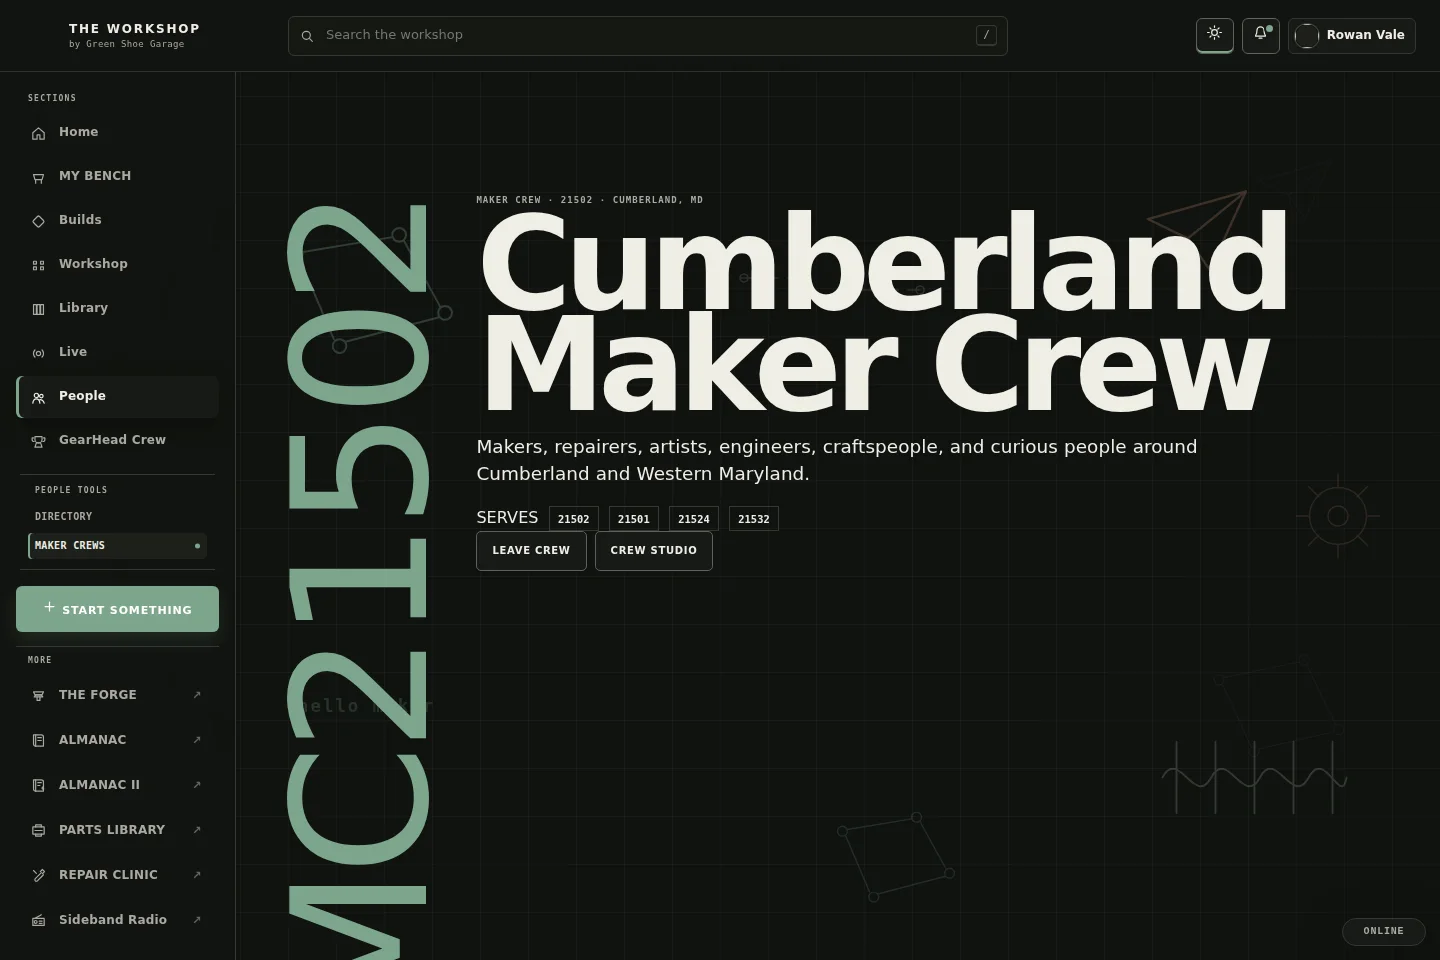
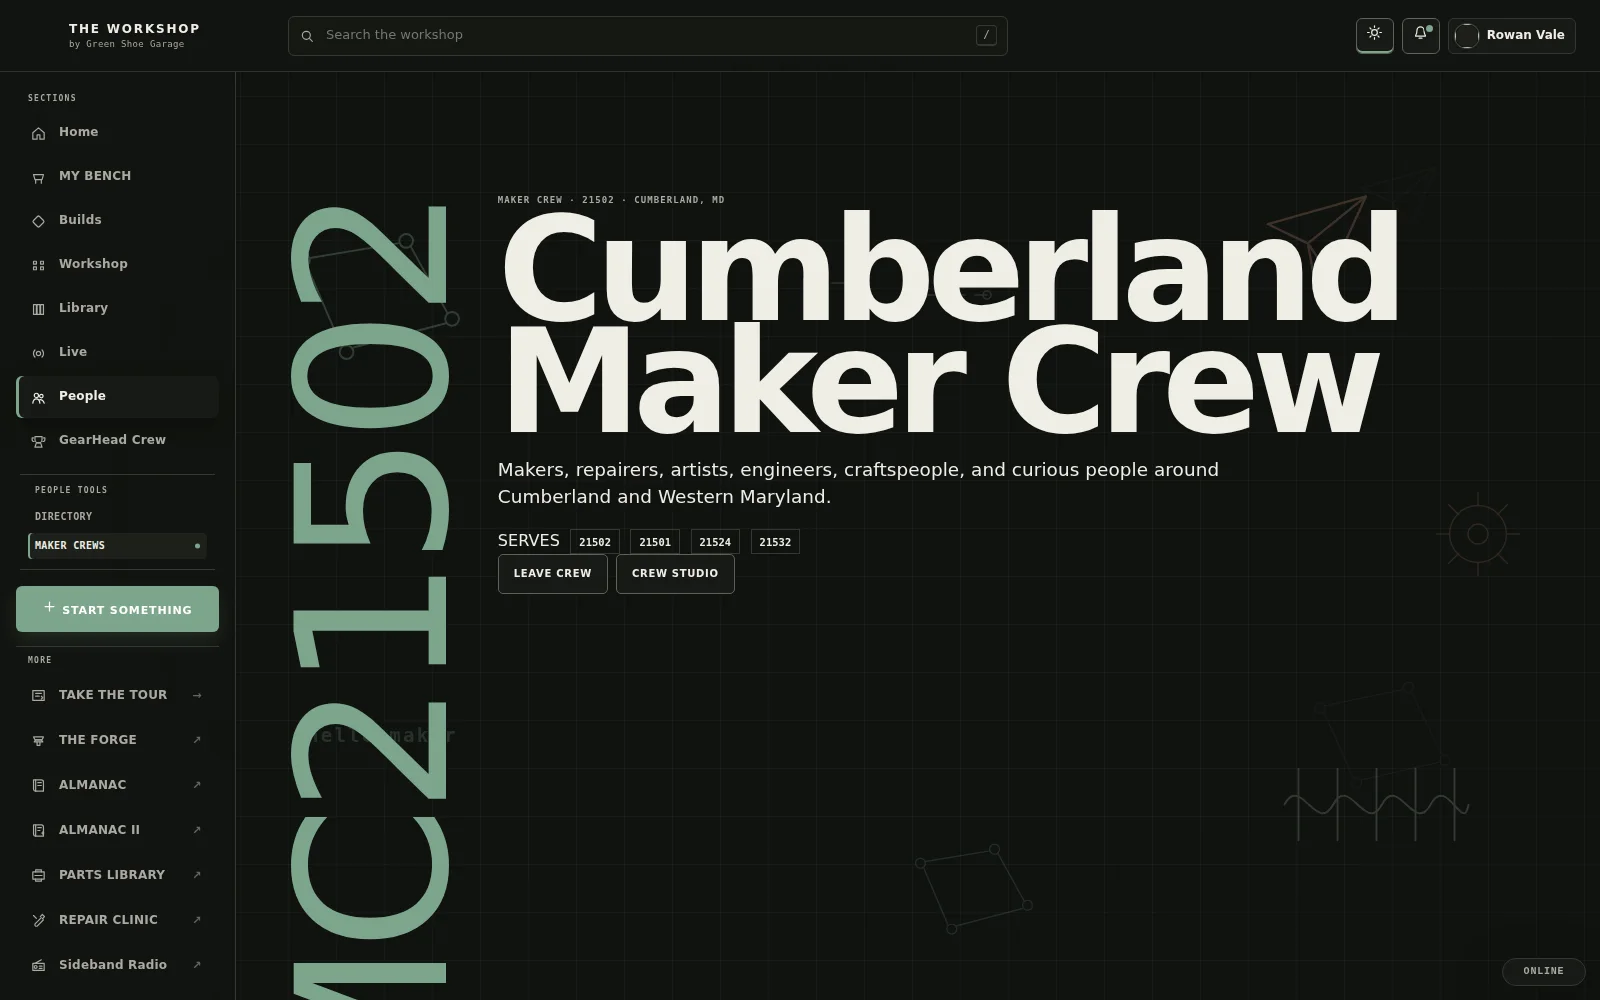
Fix public tour screenshot framing

diff --git a/public/tour/index.html b/public/tour/index.html
@@ -42,7 +42,7 @@
         <p class="demo-note"><span aria-hidden="true">◇</span> Screenshots use a fictional demo workspace. No production member data appears on this page.</p>
       </div>
       <button class="hero-shot shot-button" type="button" data-shot="/tour/screens/01-home.webp" data-caption="Home brings active work, useful community activity, and discovery into one Workshop view.">
-        <img src="/tour/screens/01-home.webp" alt="THE WORKSHOP Home screen showing a project-focused maker community dashboard" width="1440" height="960">
+        <img src="/tour/screens/01-home.webp" alt="THE WORKSHOP Home screen showing a project-focused maker community dashboard" width="1600" height="1000">
         <span>OPEN SCREENSHOT ↗</span>
       </button>
     </section>
@@ -74,8 +74,8 @@
         </ul>
       </div>
       <figure class="screen-card wide">
-        <button class="shot-button" type="button" data-shot="/tour/screens/01-home.webp" data-caption="Home keeps the focus on work, community activity, and useful next steps.">
-          <img src="/tour/screens/01-home.webp" alt="THE WORKSHOP Home screen" width="1440" height="960" loading="eager">
+        <button class="shot-button" type="button" data-shot="/tour/screens/01-home-activity.webp" data-caption="Around the Workshop shows meaningful project, Crew, and Live activity without becoming an endless feed.">
+          <img src="/tour/screens/01-home-activity.webp" alt="THE WORKSHOP Home screen scrolled to Around the Workshop activity and useful next steps" width="1600" height="1000" loading="eager">
         </button>
         <figcaption><strong>HOME</strong><span>Resume work · discover · see what is happening</span></figcaption>
       </figure>
@@ -97,7 +97,7 @@
       </div>
       <figure class="screen-card">
         <button class="shot-button" type="button" data-shot="/tour/screens/02-bench.webp" data-caption="My Bench presents the maker's practice, callsign, tools, software, learning goals, and current work.">
-          <img src="/tour/screens/02-bench.webp" alt="Fictional maker Bench showing a callsign, current project, tools, skills, software, and Craft Path" width="1440" height="960" loading="lazy">
+          <img src="/tour/screens/02-bench.webp" alt="Fictional maker Bench showing a callsign, current project, tools, skills, software, and Craft Path" width="1600" height="1000" loading="lazy">
         </button>
         <figcaption><strong>MY BENCH</strong><span>Identity · capability · curiosity</span></figcaption>
       </figure>
@@ -118,10 +118,10 @@
         </ul>
       </div>
       <figure class="screen-card">
-        <button class="shot-button" type="button" data-shot="/tour/screens/03-project.webp" data-caption="A Project gathers its current stage, story, Notebook, files, team, and shareable result.">
-          <img src="/tour/screens/03-project.webp" alt="Electronics Project page for a fictional LoRa environmental sensor" width="1440" height="960" loading="lazy">
+        <button class="shot-button" type="button" data-shot="/tour/screens/03-project.webp" data-caption="The Projects index makes active, collaborative, and completed work easy to scan before opening a workspace.">
+          <img src="/tour/screens/03-project.webp" alt="THE WORKSHOP Projects index showing active work across several maker practices" width="1600" height="1000" loading="lazy">
         </button>
-        <figcaption><strong>PROJECT WORKSPACE</strong><span>Document the work as it changes</span></figcaption>
+        <figcaption><strong>PROJECTS</strong><span>Active work · shared work · completed work</span></figcaption>
       </figure>
     </section>
 
@@ -141,7 +141,7 @@
       </div>
       <figure class="screen-card">
         <button class="shot-button" type="button" data-shot="/tour/screens/04-project-talk.webp" data-caption="Project Talk and Help remain attached to the Project and its evidence.">
-          <img src="/tour/screens/04-project-talk.webp" alt="Project Talk area showing contextual help and a discussion composer" width="1440" height="960" loading="lazy">
+          <img src="/tour/screens/04-project-talk.webp" alt="Project Talk area showing contextual help and a discussion composer" width="1600" height="1000" loading="lazy">
         </button>
         <figcaption><strong>PROJECT TALK</strong><span>Questions beat applause</span></figcaption>
       </figure>
@@ -163,7 +163,7 @@
       </div>
       <figure class="screen-card">
         <button class="shot-button" type="button" data-shot="/tour/screens/05-community-builds.webp" data-caption="Community Builds combine shared starting points, teams, fit, and maker variations.">
-          <img src="/tour/screens/05-community-builds.webp" alt="Community Builds page showing prompts, sessions, teardowns, and team actions" width="1440" height="960" loading="lazy">
+          <img src="/tour/screens/05-community-builds.webp" alt="Community Builds page showing prompts, sessions, teardowns, and team actions" width="1600" height="1000" loading="lazy">
         </button>
         <figcaption><strong>COMMUNITY BUILDS</strong><span>One starting point · many interpretations</span></figcaption>
       </figure>
@@ -185,7 +185,7 @@
       </div>
       <figure class="screen-card">
         <button class="shot-button" type="button" data-shot="/tour/screens/06-help-critique.webp" data-caption="Help + Critique brings troubleshooting, design feedback, and identification into one place.">
-          <img src="/tour/screens/06-help-critique.webp" alt="Help and Critique page showing community questions and response options" width="1440" height="960" loading="lazy">
+          <img src="/tour/screens/06-help-critique.webp" alt="Help and Critique page showing community questions and response options" width="1600" height="1000" loading="lazy">
         </button>
         <figcaption><strong>HELP + CRITIQUE</strong><span>Ask clearly · answer usefully</span></figcaption>
       </figure>
@@ -207,7 +207,7 @@
       </div>
       <figure class="screen-card">
         <button class="shot-button" type="button" data-shot="/tour/screens/07-people.webp" data-caption="People discovery is based on skills, learning goals, and current work rather than popularity.">
-          <img src="/tour/screens/07-people.webp" alt="People directory showing skills, callsigns, and makers who may know something useful" width="1440" height="960" loading="lazy">
+          <img src="/tour/screens/07-people.webp" alt="People directory showing skills, callsigns, and makers who may know something useful" width="1600" height="1000" loading="lazy">
         </button>
         <figcaption><strong>PEOPLE</strong><span>Find capability · offer help · learn together</span></figcaption>
       </figure>
@@ -229,7 +229,7 @@
       </div>
       <figure class="screen-card">
         <button class="shot-button" type="button" data-shot="/tour/screens/08-maker-crew.webp" data-caption="Maker Crews provide a local home for meetups, bulletin posts, exchange, and organization.">
-          <img src="/tour/screens/08-maker-crew.webp" alt="Fictional Cumberland Maker Crew page" width="1440" height="960" loading="lazy">
+          <img src="/tour/screens/08-maker-crew.webp" alt="Fictional Cumberland Maker Crew page" width="1600" height="1000" loading="lazy">
         </button>
         <figcaption><strong>MAKER CREW</strong><span>Local coordination without exact home locations</span></figcaption>
       </figure>
@@ -251,7 +251,7 @@
       </div>
       <figure class="screen-card">
         <button class="shot-button" type="button" data-shot="/tour/screens/09-live-calendar.webp" data-caption="Live + Calendar aggregates the Workshop's scheduled activity.">
-          <img src="/tour/screens/09-live-calendar.webp" alt="Live and Calendar page with upcoming Workshop events" width="1440" height="960" loading="lazy">
+          <img src="/tour/screens/09-live-calendar.webp" alt="Live and Calendar page with upcoming Workshop events" width="1600" height="1000" loading="lazy">
         </button>
         <figcaption><strong>LIVE + CALENDAR</strong><span>Sessions · clinics · Crew events · broadcasts</span></figcaption>
       </figure>
@@ -273,7 +273,7 @@
       </div>
       <figure class="screen-card">
         <button class="shot-button" type="button" data-shot="/tour/screens/10-shop-manual.webp" data-caption="The Shop Manual turns project evidence into reusable community knowledge.">
-          <img src="/tour/screens/10-shop-manual.webp" alt="Shop Manual page showing guides and references across disciplines" width="1440" height="960" loading="lazy">
+          <img src="/tour/screens/10-shop-manual.webp" alt="Shop Manual page showing guides and references across disciplines" width="1600" height="1000" loading="lazy">
         </button>
         <figcaption><strong>SHOP MANUAL</strong><span>Useful knowledge should remain findable</span></figcaption>
       </figure>
@@ -295,7 +295,7 @@
       </div>
       <figure class="screen-card">
         <button class="shot-button" type="button" data-shot="/tour/screens/11-gearhead.webp" data-caption="GearHead Crew centers deeper resources and work that helps makers, clients, and users grow together.">
-          <img src="/tour/screens/11-gearhead.webp" alt="GearHead Crew home showing Crew Work and Vault destinations" width="1440" height="960" loading="lazy">
+          <img src="/tour/screens/11-gearhead.webp" alt="GearHead Crew home showing Crew Work and Vault destinations" width="1600" height="1000" loading="lazy">
         </button>
         <figcaption><strong>GEARHEAD CREW</strong><span>Deeper access · community-first work</span></figcaption>
       </figure>
@@ -318,7 +318,7 @@
       <div class="screen-pair">
         <figure class="screen-card">
           <button class="shot-button" type="button" data-shot="/tour/screens/12-appearance.webp" data-caption="Appearance combines theme, display density, and Workshop atmosphere settings.">
-            <img src="/tour/screens/12-appearance.webp" alt="THE WORKSHOP Appearance settings dialog" width="1440" height="960" loading="lazy">
+            <img src="/tour/screens/12-appearance.webp" alt="THE WORKSHOP Appearance settings dialog" width="1600" height="1000" loading="lazy">
           </button>
           <figcaption><strong>APPEARANCE</strong><span>Workshop · Quiet · Off</span></figcaption>
         </figure>

diff --git a/scripts/capture-tour.js b/scripts/capture-tour.js
@@ -39,11 +39,11 @@ async function shot(cdp,name,{scroll=null,selector=null,full=false}={}){
   let chrome,cdp;
   try{
     const base=`http://127.0.0.1:${appPort}`;await waitForHttp(`${base}/api/meta`);
-    chrome=spawn(chromium(),[`--remote-debugging-port=${debugPort}`,`--user-data-dir=${chromeDir}`,'--headless=new','--no-sandbox','--disable-dev-shm-usage','--disable-gpu','--disable-extensions','--disable-background-networking','--disable-sync','--no-first-run','--no-default-browser-check','--hide-scrollbars','--window-size=1440,960','about:blank'],{stdio:['ignore','pipe','pipe']});
+    chrome=spawn(chromium(),[`--remote-debugging-port=${debugPort}`,`--user-data-dir=${chromeDir}`,'--headless=new','--no-sandbox','--disable-dev-shm-usage','--disable-gpu','--disable-extensions','--disable-background-networking','--disable-sync','--no-first-run','--no-default-browser-check','--hide-scrollbars','--window-size=1600,1000','about:blank'],{stdio:['ignore','pipe','pipe']});
     chrome.stdout.on('data',d=>logs.push(String(d)));chrome.stderr.on('data',d=>logs.push(String(d)));
     await waitForHttp(`http://127.0.0.1:${debugPort}/json/version`);
     const target=await (await fetch(`http://127.0.0.1:${debugPort}/json/new?about:blank`,{method:'PUT'})).json();cdp=new CDP(target.webSocketDebuggerUrl);await cdp.connect();
-    await Promise.all([cdp.send('Page.enable'),cdp.send('Runtime.enable'),cdp.send('Network.enable'),cdp.send('Runtime.addBinding',{name:'__qaFetchBridge'}),cdp.send('Emulation.setDeviceMetricsOverride',{width:1440,height:960,deviceScaleFactor:1,mobile:false})]);
+    await Promise.all([cdp.send('Page.enable'),cdp.send('Runtime.enable'),cdp.send('Network.enable'),cdp.send('Runtime.addBinding',{name:'__qaFetchBridge'}),cdp.send('Emulation.setDeviceMetricsOverride',{width:1600,height:1000,deviceScaleFactor:1,mobile:false})]);
     let cookie='';
     cdp.on('Runtime.bindingCalled',async p=>{if(p.name!=='__qaFetchBridge')return;let request;try{request=JSON.parse(p.payload)}catch{return;}try{let pathname=String(request.url||'/');if(pathname.startsWith(base))pathname=pathname.slice(base.length)||'/';else if(/^https?:/i.test(pathname)){const u=new URL(pathname);pathname=u.pathname+u.search;}if(!pathname.startsWith('/'))pathname='/'+pathname;const headers={...(request.headers||{})};if(cookie)headers.cookie=cookie;const response=await fetch(base+pathname,{method:request.method||'GET',headers,body:request.body||undefined,redirect:'manual'});const sc=response.headers.get('set-cookie');if(sc)cookie=sc.split(';')[0];const payload={status:response.status,statusText:response.statusText,headers:Object.fromEntries(response.headers),body:await response.text()};await cdp.send('Runtime.evaluate',{expression:`window.__qaFetchResolve(${JSON.stringify(request.id)},${JSON.stringify(JSON.stringify(payload))})`});}catch(err){await cdp.send('Runtime.evaluate',{expression:`window.__qaFetchReject(${JSON.stringify(request.id)},${JSON.stringify(String(err.message||err))})`}).catch(()=>{});}});
 
@@ -58,9 +58,11 @@ async function shot(cdp,name,{scroll=null,selector=null,full=false}={}){
     await wait(cdp,`document.querySelector('#user-name')?.textContent==='Rowan Vale'`,'profile update');
 
     await route(cdp,'#/home');await shot(cdp,'01-home');
+    await evalx(cdp,`(()=>{const nodes=[...document.querySelectorAll('h2,h3,[data-section-title]')];const target=nodes.find(node=>/AROUND THE WORKSHOP/i.test(node.textContent||''));if(target)target.scrollIntoView({block:'start',behavior:'instant'});else window.scrollTo(0,Math.max(560,innerHeight*.7));return true})()`);
+    await sleep(450);await shot(cdp,'01-home-activity');
     await route(cdp,'#/bench');await shot(cdp,'02-bench');
-    await route(cdp,'#/projects/p_lora');await shot(cdp,'03-project');
-    await shot(cdp,'04-project-talk',{selector:'#project-discussion'});
+    await route(cdp,'#/builds');await shot(cdp,'03-project');
+    await route(cdp,'#/projects/p_lora');await shot(cdp,'04-project-talk',{selector:'#project-discussion'});
     await route(cdp,'#/community-builds');await shot(cdp,'05-community-builds');
     await route(cdp,'#/help');await shot(cdp,'06-help-critique');
     await route(cdp,'#/people');await shot(cdp,'07-people');

diff --git a/public/tour/tour.css b/public/tour/tour.css
@@ -41,3 +41,59 @@ main{overflow:hidden}.hero{display:grid;grid-template-columns:minmax(0,.82fr) mi
 @media(max-width:720px){.tour-header{min-height:64px}.tour-brand strong{font-size:.72rem}.tour-brand small{font-size:.56rem}.tour-header nav{gap:.5rem}.header-action{padding:.68rem .72rem;font-size:.58rem}.tour-index{top:64px}.hero{min-height:0;padding:3.5rem 1rem}.hero h1{font-size:clamp(3.1rem,15vw,5.4rem)}.hero-lede{font-size:1rem}.hero-shot{transform:none}.tour-section,.tour-section.reverse{padding:5rem 1rem}.section-copy h2,.feature-index h2,.closing h2{font-size:clamp(2.55rem,12vw,4.3rem)}.capability-list{grid-template-columns:1fr}.screen-card figcaption{display:block}.screen-card figcaption span{display:block;margin-top:.4rem}.screen-pair{grid-template-columns:1fr}.mobile-card{width:min(100%,320px);justify-self:center}.feature-index{padding:5rem 1rem}.feature-grid{grid-template-columns:1fr}.feature-index-head{margin-bottom:2rem}.closing{padding:6rem 1rem}.tour-footer{align-items:flex-start;flex-direction:column}.tour-footer nav{flex-wrap:wrap}.dialog-bar p{display:none}}
 @media(prefers-reduced-motion:reduce){html{scroll-behavior:auto}*{animation:none!important;transition:none!important}}
 @media(forced-colors:active){.button,.screen-card,.hero-shot,.feature-grid,.feature-grid article{border:1px solid CanvasText}.button.primary{background:Highlight;color:HighlightText}}
+
+/* TOUR FRAMING REFINEMENT v2 */
+main{overflow:clip}
+.hero{
+  grid-template-columns:minmax(310px,.82fr) minmax(0,1.18fr);
+  gap:clamp(2rem,4vw,4.75rem);
+  min-height:auto;
+  padding-top:clamp(3.5rem,6vw,6rem);
+  padding-bottom:clamp(3.5rem,6vw,6rem)
+}
+.hero h1{max-width:11ch;font-size:clamp(3.15rem,6vw,6.65rem);line-height:.92}
+.hero-shot{width:100%;max-width:960px;justify-self:end;transform:none;background:#090c09}
+.hero-shot img{
+  display:block;
+  width:100%;
+  height:auto!important;
+  aspect-ratio:8/5;
+  object-fit:contain!important;
+  object-position:center!important;
+  background:#090c09
+}
+.tour-section,.tour-section.reverse{
+  grid-template-columns:minmax(300px,.8fr) minmax(0,1.2fr);
+  gap:clamp(2.5rem,5vw,6rem);
+  min-height:auto;
+  padding-top:clamp(4.5rem,7vw,7rem);
+  padding-bottom:clamp(4.5rem,7vw,7rem)
+}
+.tour-section.reverse{grid-template-columns:minmax(0,1.2fr) minmax(300px,.8fr)}
+.section-copy h2,.feature-index h2,.closing h2{font-size:clamp(2.45rem,4.25vw,4.75rem);line-height:.96}
+.screen-card{width:100%;max-width:1040px;justify-self:center;background:#090c09}
+.screen-card button{display:block;width:100%;line-height:0;background:#090c09}
+.screen-card img{
+  display:block;
+  width:100%;
+  height:auto!important;
+  aspect-ratio:8/5;
+  object-fit:contain!important;
+  object-position:center!important;
+  background:#090c09
+}
+.mobile-card{max-width:310px}
+.mobile-card img{width:100%;height:auto!important;aspect-ratio:390/844!important;object-fit:contain!important}
+.shot-dialog>img{display:block;width:100%;height:auto!important;object-fit:contain;background:#090c09}
+@media(max-width:1050px){
+  .hero,.tour-section,.tour-section.reverse{grid-template-columns:1fr;min-height:0}
+  .hero-shot{max-width:900px;justify-self:center}
+  .screen-card{max-width:900px}
+  .tour-section.reverse .section-copy,.tour-section.reverse .screen-card,.tour-section.reverse .screen-pair{order:initial}
+}
+@media(max-width:720px){
+  .hero{padding-top:3.5rem;padding-bottom:3.5rem}
+  .hero h1{font-size:clamp(3rem,14vw,5rem)}
+  .tour-section,.tour-section.reverse{padding-top:4.5rem;padding-bottom:4.5rem}
+  .section-copy h2,.feature-index h2,.closing h2{font-size:clamp(2.45rem,11vw,4rem)}
+}
